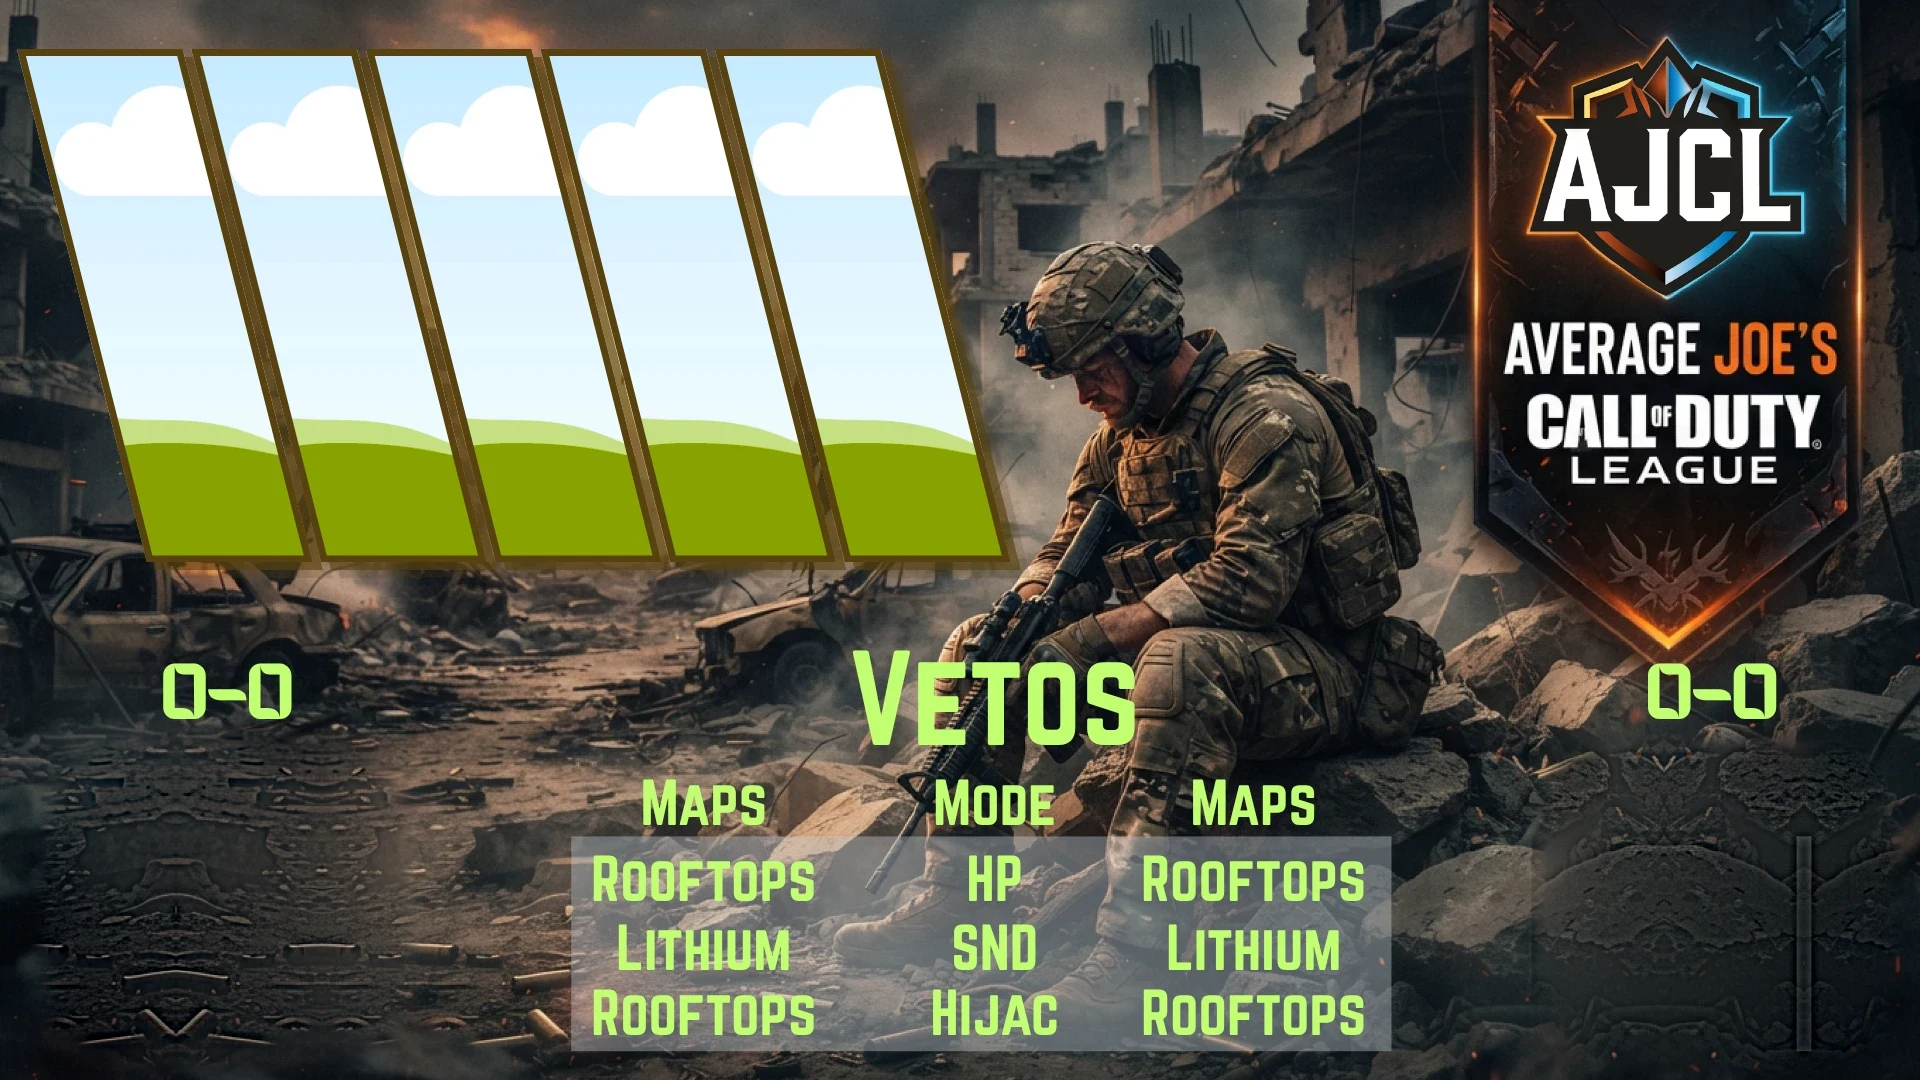
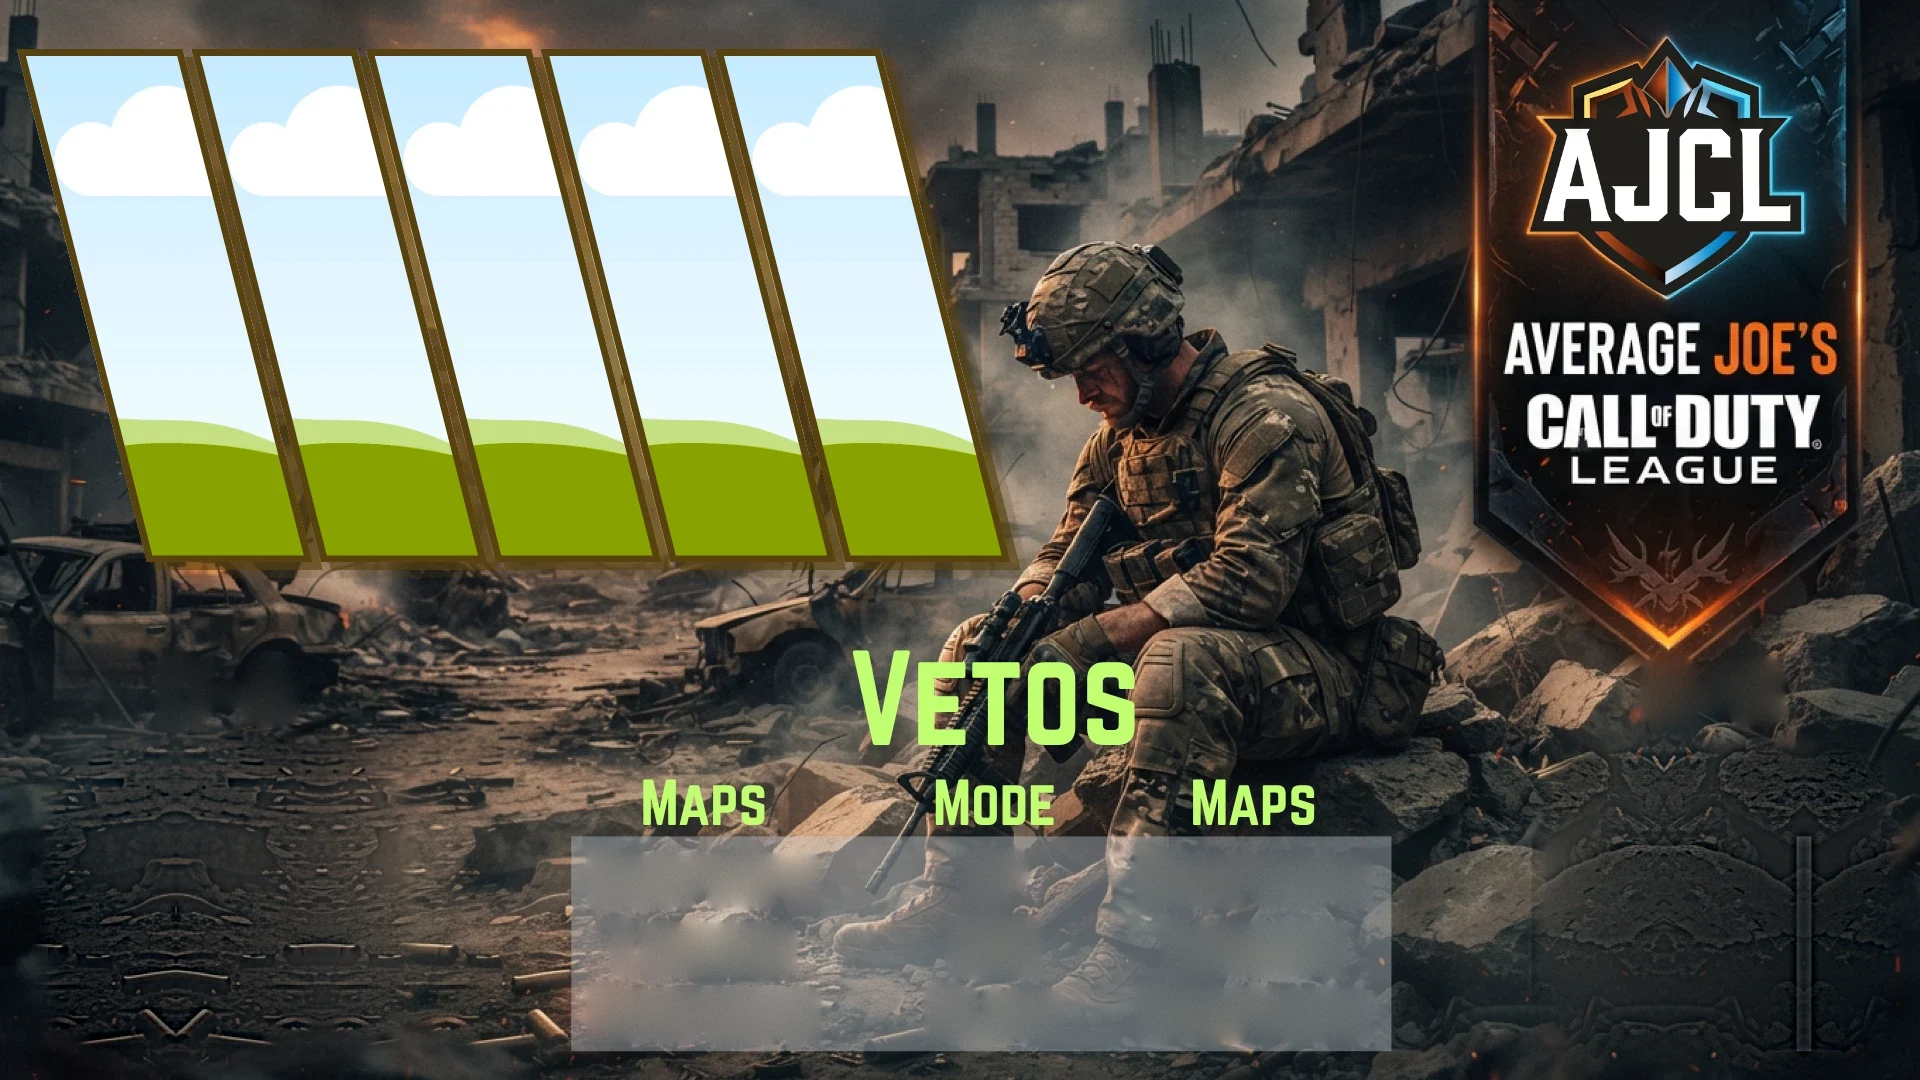
feat: erase the template's sample records and vetos; draw the real ones directly
Records and vetos now sit straight on the template (its grey vetos box is
kept) instead of on blurred boxes.

diff --git a/src/render.js b/src/render.js
@@ -435,7 +435,7 @@ function mapsetPage(league, m, c) {
   /* Covers for the template's sample text/logos. */
   .ms-cover { position: absolute; display: grid; place-items: center; border-radius: 18px;
     background: rgba(12,12,14,.55); -webkit-backdrop-filter: blur(26px); backdrop-filter: blur(26px); }
-  .ms-rec { top: 648px; width: 210px; height: 88px; font-size: 92px; font-weight: 600; line-height: 1; padding-top: 8px; box-sizing: border-box; }
+  .ms-rec { top: 648px; width: 210px; height: 88px; font-size: 92px; font-weight: 600; line-height: 1; padding-top: 8px; box-sizing: border-box; background: none; -webkit-backdrop-filter: none; backdrop-filter: none; text-shadow: 0 3px 10px rgba(0,0,0,.7); }
   .ms-rec-l { left: 123px; }
   .ms-rec-r { left: 1607px; }
   /* Logos sit straight on the template (its sample logos are erased from the image). */
@@ -444,7 +444,8 @@ function mapsetPage(league, m, c) {
   .ms-logo-r { left: 1535px; }
   .ms-logo img { max-width: 300px; max-height: 290px; object-fit: contain; filter: drop-shadow(0 8px 20px rgba(0,0,0,.6)); }
   .ms-abbr { font-size: 120px; color: #fff; }
-  .ms-vetos { left: 566px; top: 838px; width: 830px; height: 216px; border-radius: 6px; background: rgba(150,150,150,.35); align-content: center; gap: 2px; }
+  /* The template already has the grey vetos box (its sample text is erased). */
+  .ms-vetos { left: 566px; top: 838px; width: 830px; height: 216px; border-radius: 0; background: none; -webkit-backdrop-filter: none; backdrop-filter: none; align-content: center; gap: 2px; text-shadow: 0 2px 8px rgba(0,0,0,.55); }
   .ms-row { display: grid; grid-template-columns: 1fr 230px 1fr; width: 100%; text-align: center; font-size: 66px; font-weight: 600; line-height: 1.02; }
   .ms-row span { white-space: nowrap; overflow: hidden; text-overflow: ellipsis; }
   .ms-status { position: absolute; left: 30px; top: 8px; font-size: 30px; color: #ffcf5a; text-shadow: 0 2px 6px rgba(0,0,0,.9); letter-spacing: .05em; }
